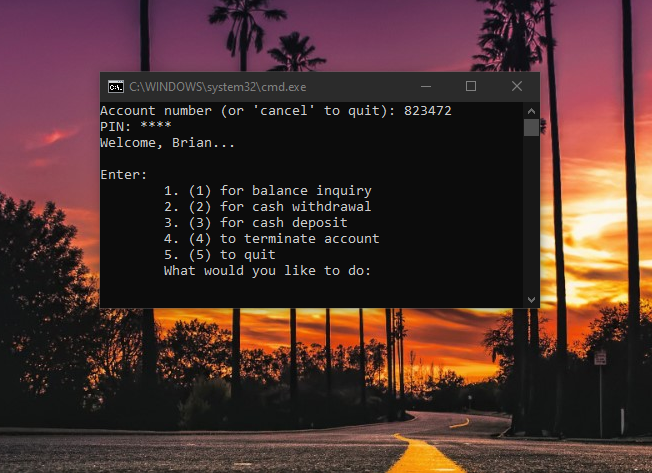
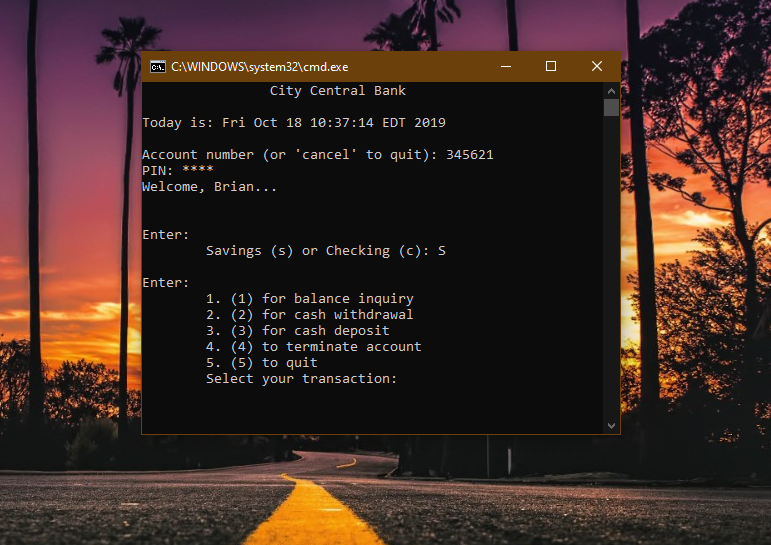
Commit

diff --git a/Project2.htm b/Project2.htm
@@ -47,7 +47,7 @@
 		
 		<br/><br/>
 		<p style="margin-left: 280px; font-size: 17px">For this project, I developed a Java ATM simulation program.<br/><br/> 
-		-&nbsp;ATM functions: balance inquiry, deposit, withdraw, terminate account<br/>
+		-&nbsp;ATM functions: select savings or checkings, balance inquiry, deposit, withdraw, terminate account<br/>
 		-&nbsp;ATM withdraw operation will be prevented if balance is below withdraw amount<br/>
 		-&nbsp;ATM deposit operation will be prevented if deposit amount is extremely high<br/>
 		-&nbsp;Save information to receipt txt file<br/><br/>
@@ -55,13 +55,13 @@
 		<br/>	
 		<center>
 		<p>Images of the Project:</p><br/>
-		<img src="App2 pics/App1.PNG" alt="pic1" style="height: 400px; width: 500px; margin-left: 50px"></img>
-		<img src="App2 pics/App2.PNG" alt="pic2" style="height: 400px; width: 500px"></img>
-		<img src="App2 pics/App3.PNG" alt="pic3" style="height: 400px; width: 500px; margin-left: 50px"></img>
-		<img src="App2 pics/App4.PNG" alt="pic4" style="height: 400px; width: 500px"></img>
-		<img src="App2 pics/App5.PNG" alt="pic5" style="height: 400px; width: 500px; margin-left: 50px"></img>
-		<img src="App2 pics/App6.PNG" alt="pic6" style="height: 400px; width: 500px"></img>
-		<img src="App2 pics/App7.PNG" alt="pic7" height=450px width=500px></img><br/><br/>
+		<img src="App2 pics/App1.PNG" alt="pic1" height=400px width=500px; margin-left: 50px"></img>
+		<img src="App2 pics/App2.PNG" alt="pic2" height=400px width=500px"></img>
+		<img src="App2 pics/App3.PNG" alt="pic3" height=400px width=500px; margin-left: 50px"></img>
+		<img src="App2 pics/App4.PNG" alt="pic4" height=400px width=500px"></img>
+		<img src="App2 pics/App5.PNG" alt="pic5" height=400px width=500px; margin-left: 50px"></img>
+		<img src="App2 pics/App6.PNG" alt="pic6" height=400px width=500px"></img>
+		<img src="App2 pics/App7.PNG" alt="pic7" height=380px width=600px></img><br/><br/>
 		</center><hr/>
 				
 		<br/><br/><center><a href="#top" style="text-decoration: none;"><img src="up_arrow.png" style="display: inline;" width="10px" height="12px"></img><p style="display: inline; font-size: 18px">&nbsp;Back to top</p></a></center><br/><br/><br/>
